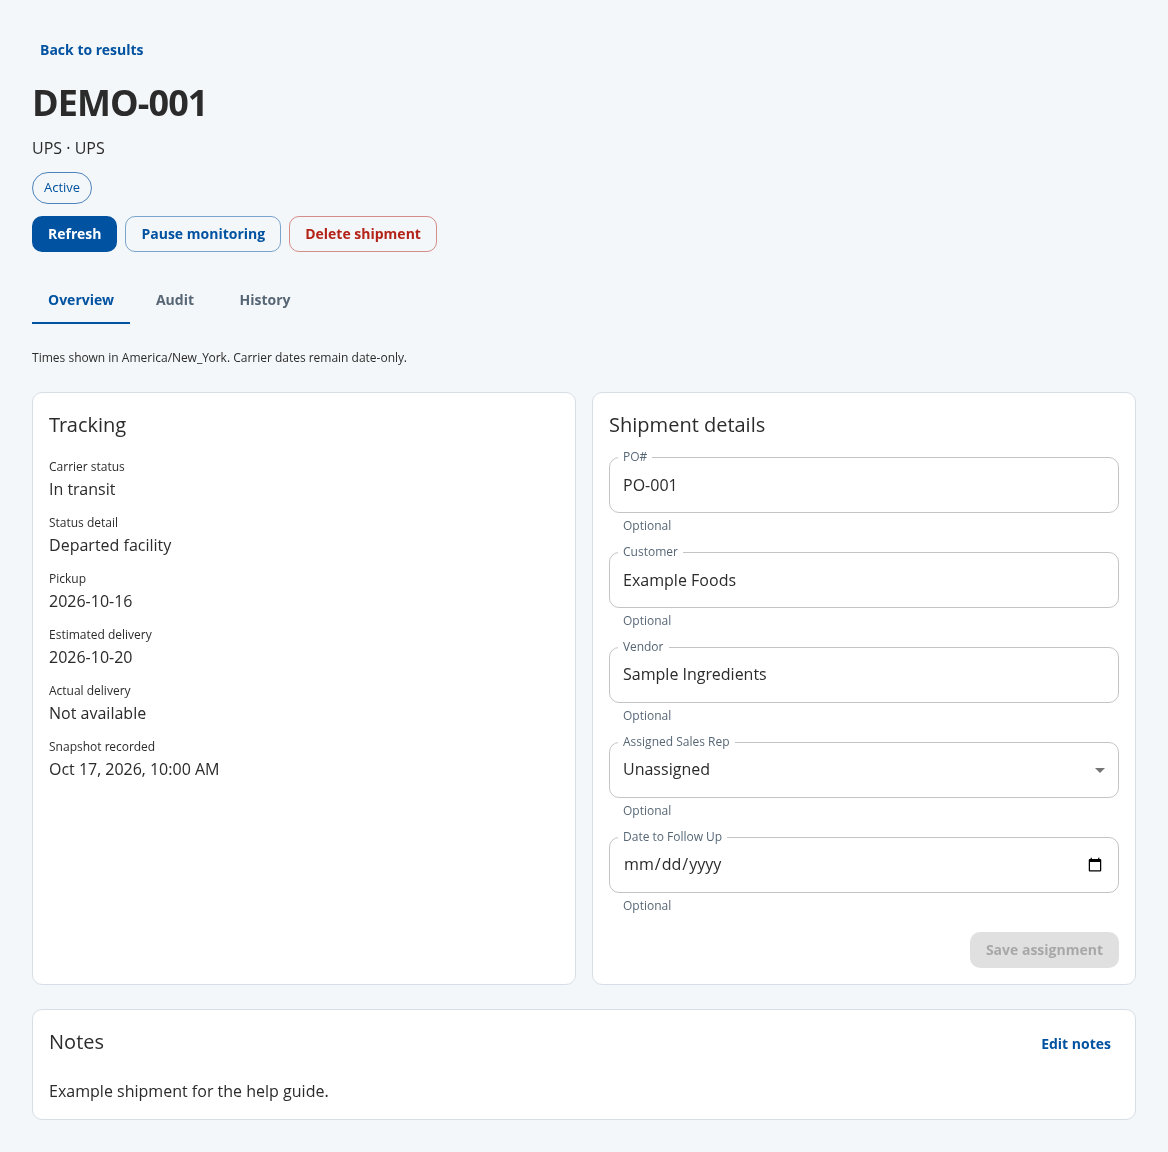
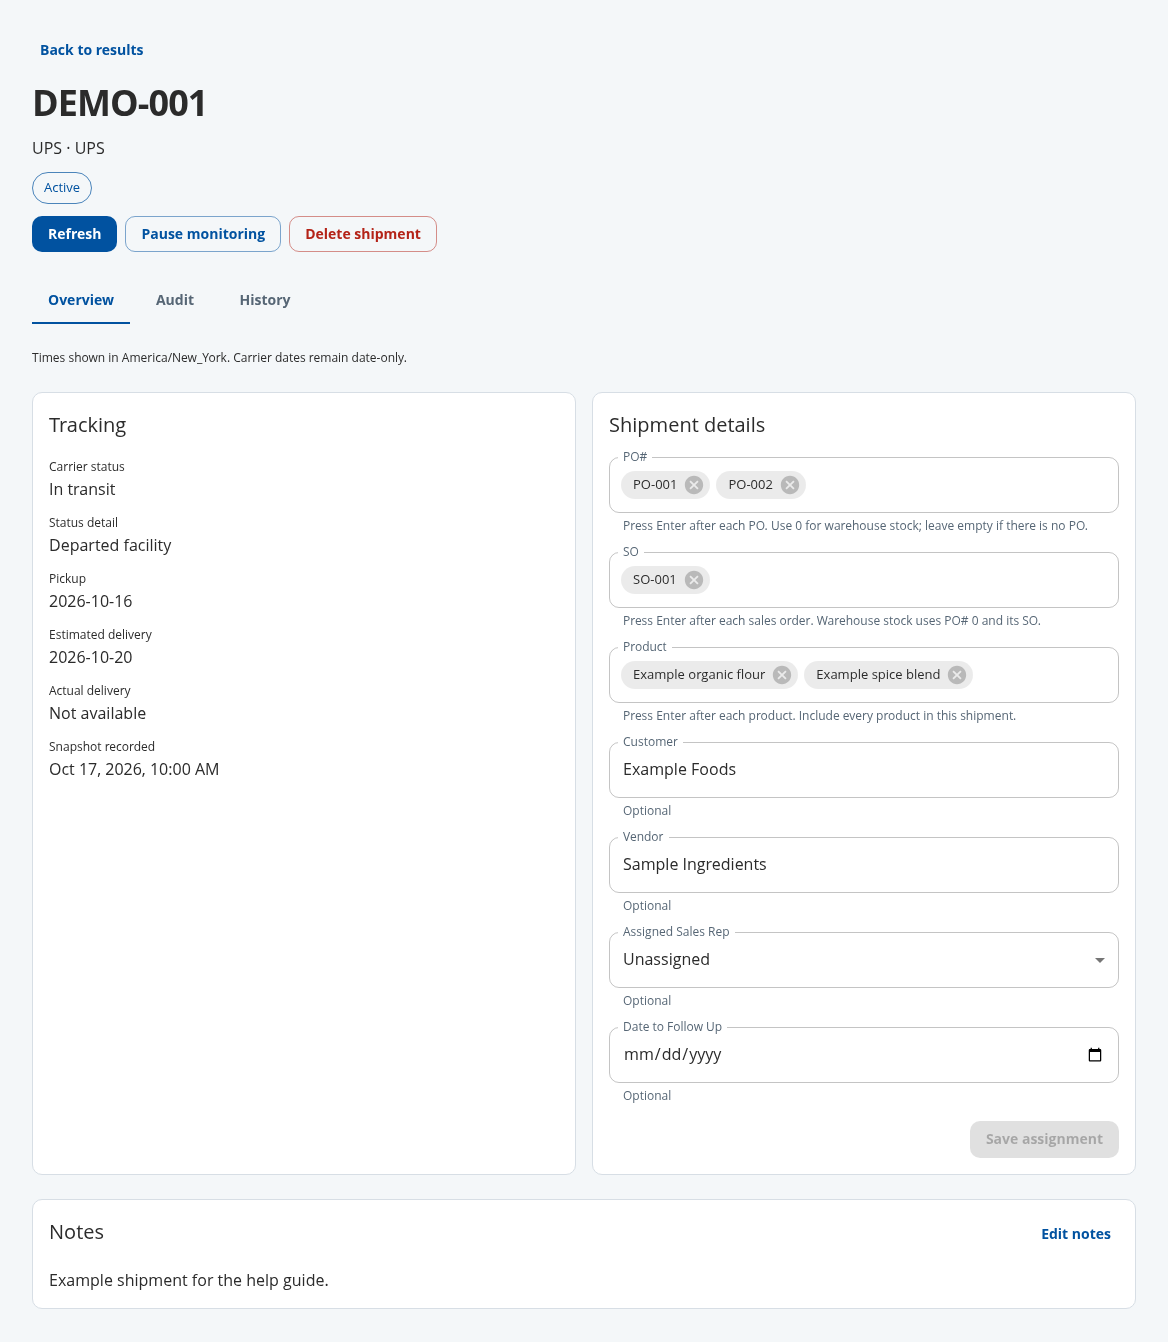
docs(help): SHIP-V1-002 explain shipment order references

diff --git a/e2e/help-capture.spec.ts b/e2e/help-capture.spec.ts
@@ -15,7 +15,10 @@ test('capture fictional help screenshots', async ({ page }) => {
   const actor = { ...accountFixture, firstName: 'Jordan', lastName: 'Example' };
   const row = shipmentFixture(1, {
     trackingReference: 'DEMO-001',
-    poNumber: 'PO-001',
+    poNumber: 'PO-001, PO-002',
+    poNumbers: ['PO-001', 'PO-002'],
+    soNumbers: ['SO-001'],
+    products: ['Example organic flour', 'Example spice blend'],
     customer: 'Example Foods',
     vendor: 'Sample Ingredients',
     notes: 'Example shipment for the help guide.',
@@ -86,7 +89,19 @@ test('capture fictional help screenshots', async ({ page }) => {
     ],
   ];
   for (const [url, json] of mocks) await page.route(url, (route) => route.fulfill({ json }));
+  const region = (name: string) => page.getByRole('region', { name, exact: true });
   const captures: Record<string, unknown> = {};
+  if (process.env.HELP_CAPTURE_DETAILS_ONLY === 'true') {
+    await page.goto(`/shipments/${row.externalId}`);
+    await capture('details', [region('Tracking'), region('Shipment details'), region('Notes')]);
+    const { readFile } = await import('node:fs/promises');
+    const previous = JSON.parse(await readFile('src/features/help/captures.json', 'utf8'));
+    await writeFile(
+      'src/features/help/captures.json',
+      `${JSON.stringify({ ...previous, ...captures }, null, 2)}\n`,
+    );
+    return;
+  }
   await mkdir('public/help/screenshots', { recursive: true });
   async function capture(name: string, targets: Locator[]) {
     const main = page.getByRole('main');
@@ -115,7 +130,7 @@ test('capture fictional help screenshots', async ({ page }) => {
       element.style.minHeight = previous;
     }, previousMinHeight);
   }
-  const region = (name: string) => page.getByRole('region', { name, exact: true });
+
   await page.goto('/');
   await capture('overview', [
     page.getByRole('link', { name: 'All shipments: 1200' }),

diff --git a/src/features/help/content.ts b/src/features/help/content.ts
@@ -131,7 +131,7 @@ export const guides: Record<HelpCategory, Guide[]> = {
         },
         {
           title: 'Edit business details',
-          text: 'Update PO#, Customer, Vendor, Sales Rep or follow-up date, then save. Clear an optional text field and save to remove its value.',
+          text: 'Update PO#, SO, Product, Customer, Vendor, Sales Rep or follow-up date, then save. Press Enter after each PO, SO or product to add it. Remove a reference or product chip to clear that value.',
         },
         {
           title: 'Keep useful notes',
@@ -139,6 +139,8 @@ export const guides: Record<HelpCategory, Guide[]> = {
         },
       ],
       tips: [
+        'A shipment can have several POs, and a PO can cover several tracking numbers. Leave PO# empty when there is no PO. For warehouse stock, use PO# 0 and record the sales order under SO.',
+        'SO and Product appear in shipment details only; they are not monitoring-table columns. Include every product when a shipment contains several products.',
         'Carrier and tracking reference cannot be corrected through this editor.',
         'Delete shipment removes it from active views and stops monitoring. It is a soft deletion with no restore action in the app; adding the pair again creates a new record.',
         'A future follow-up date can keep delivered shipments monitored until that date starts in New York. Use Monitor again when available to restart monitoring.',
